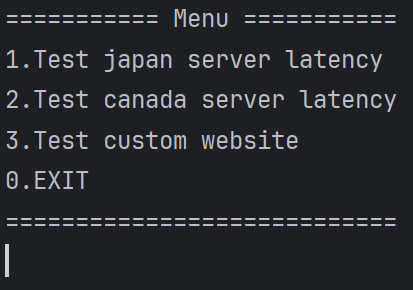
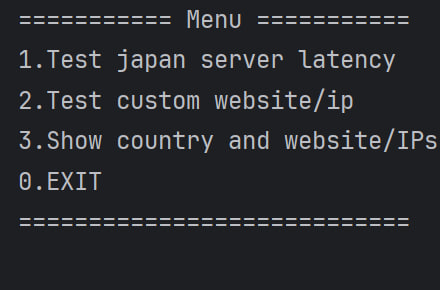
added custom test feature

diff --git a/src/pingTester.java b/src/pingTester.java
@@ -5,6 +5,7 @@ public class pingTester {
 
         int choice;
         do {
+
             Scanner scanner = new Scanner(System.in);
             DisplayMenu();
             choice = scanner.nextInt();
@@ -14,21 +15,26 @@ public class pingTester {
                     ConnectToJapan();
                     break;
                 case 2:
-                    ConnectToCanada();
+                    ConnectToCustomWeb();
+                    break;
+                case 3:
+                    CountryIPs();
                     break;
             }
 
         } while (choice != 0);
     }
 
-    public static void ConnectToCanada() {
-        PingConfiguration pingConfiguration = new PingConfiguration("www.canada.ca", 10, 1000);
+    public static void ConnectToCustomWeb() {
+        Scanner sc = new Scanner(System.in);
+        System.out.println("Enter domain  or ip address:");
+        String customServerAddress = sc.next();
 
-        String serverAddress = pingConfiguration.getServerAddress();
+        PingConfiguration pingConfiguration = new PingConfiguration(customServerAddress, 10, 1000);
         int numberOfRequest = pingConfiguration.getRequestSendAmount();
         int timeoutMillis = pingConfiguration.getTimeoutMillis();
+        PingConfiguration.ConnectToServer(customServerAddress, numberOfRequest, timeoutMillis);
 
-        PingConfiguration.ConnectToServer(serverAddress, numberOfRequest, timeoutMillis);
     }
 
     public static void ConnectToJapan() {
@@ -40,12 +46,18 @@ public class pingTester {
 
         PingConfiguration.ConnectToServer(serverAddress, numberOfRequest, timeoutMillis);
     }
+    public static void CountryIPs() {
+        System.out.println("RUSSIA(MOSCOW) - 46.17.46.213" +
+                "\nCANADA - www.canada.ca" +
+                "\nGERMANY - www.deutschland.de" +
+                "\nUZBEKISTAN - my.gov.uzD");
+    }
 
     public static void DisplayMenu() {
         System.out.println("=========== Menu ===========");
         System.out.println("1.Test japan server latency");
-        System.out.println("2.Test canada server latency");
-        System.out.println("3.Test custom website");
+        System.out.println("2.Test custom website/ip");
+        System.out.println("3.Show country and website/IPs");
         System.out.println("0.EXIT");
         System.out.println("============================");
     }
